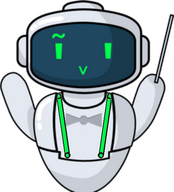
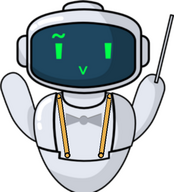
feat(hero): colgar kaWATCHan a la izquierda y tirantes en oro (KJL-TSK-0107)

Changed region(s): [[0.3161, 0.4688, 0.4023, 0.8438], [0.5747, 0.5, 0.6609, 0.8125]]

diff --git a/public/index.html b/public/index.html
@@ -398,7 +398,13 @@
         </picture>
         <span class="family-child-label">RAG</span>
       </a>
-      <!-- .family-child-left reserved for karajan-watch (in progress) -->
+      <a class="family-child family-child-left" href="https://watch.karajancode.com" aria-label="kaWATCHan — cross-repo impact analysis on every merge" title="kaWATCHan — cross-repo impact analysis on every merge">
+        <picture>
+          <source type="image/webp" srcset="/img/watch-logo-120.webp">
+          <img src="/img/watch-logo-120.png" alt="kaWATCHan" width="53" height="58" loading="lazy">
+        </picture>
+        <span class="family-child-label">WATCH</span>
+      </a>
     </div>
     <h1>Karajan Code</h1>
     <p class="hero-tagline">Code with several AIs, <em class="guarantee">with guarantees</em>.</p>
